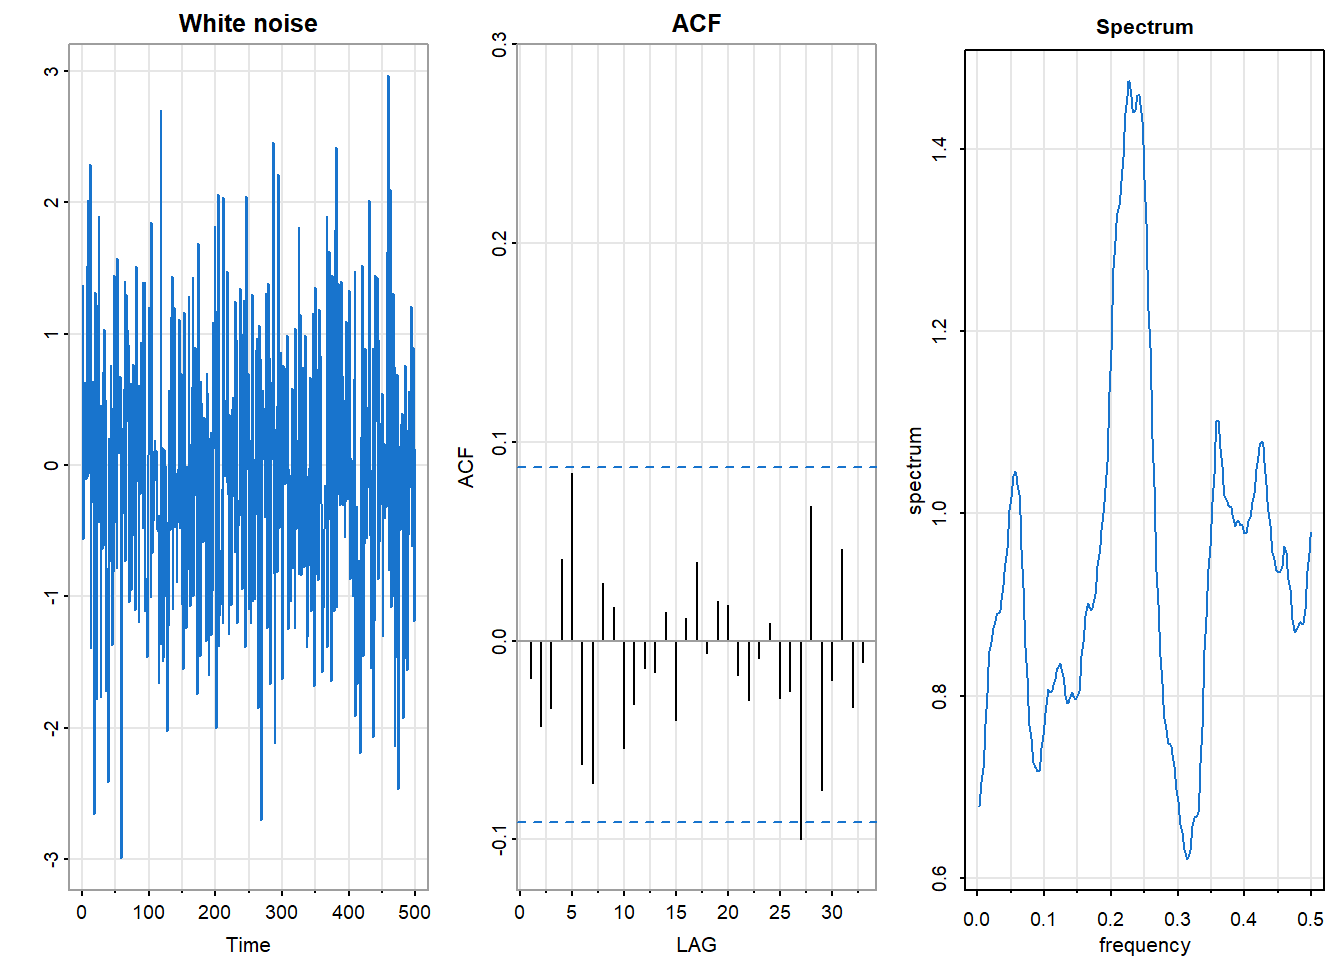
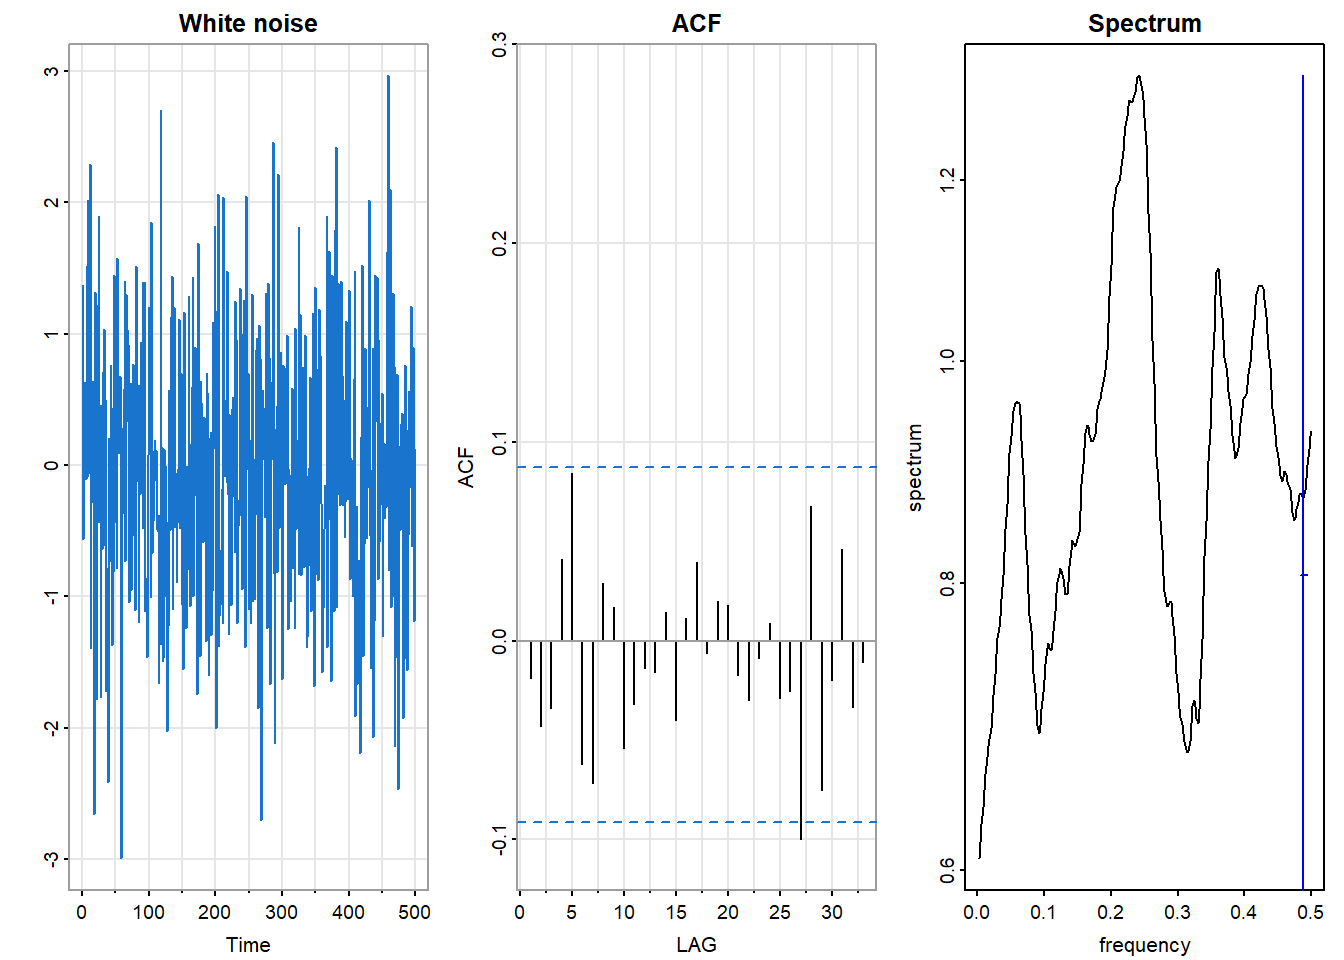
ts-data.qmd: final edits, including changing function calls to `pkg::fn()` format.

diff --git a/_book/ts-data.html b/_book/ts-data.html
@@ -480,7 +480,7 @@ window.Quarto = {
     <div>
     <div class="quarto-title-meta-heading">Published</div>
     <div class="quarto-title-meta-contents">
-      <p class="date">20:41 Thu 11-Dec-2025</p>
+      <p class="date">04:41 Fri 12-Dec-2025</p>
     </div>
   </div>
   
@@ -781,9 +781,6 @@ f_W(\lambda) = \frac{\sigma^2}{2\pi} \quad \text{for all } \lambda \in (-\pi, \p
 <h3 data-number="12.3.4" class="anchored" data-anchor-id="visual-signature"><span class="header-section-number">12.3.4</span> Visual Signature</h3>
 <p><a href="#fig-white-noise" class="quarto-xref">Figure&nbsp;<span>12.10</span></a> shows a realization of white noise along with its sample ACF and estimated spectrum.</p>
 <div class="cell">
-<div class="cell-output cell-output-stdout">
-<pre><code>Bandwidth: 0.042 | Degrees of Freedom: 42.21 | split taper: 0% </code></pre>
-</div>
 <div class="cell-output-display">
 <div id="fig-white-noise" class="quarto-float quarto-figure quarto-figure-center anchored">
 <figure class="quarto-float quarto-float-fig figure">
@@ -797,7 +794,7 @@ Figure&nbsp;12.10: White noise: time series, ACF, and spectrum
 </div>
 </div>
 </div>
-<p>The time series shows no visible pattern—values fluctuate randomly around zero with no apparent persistence or periodicity. The sample ACF hovers near zero at all nonzero lags, with values falling within the blue dashed confidence bands that indicate the range expected under the null hypothesis of white noise. The smoothed spectrum is approximately flat, with no peaks indicating dominant frequencies.</p>
+<p>The time series shows no visible pattern—values fluctuate randomly around zero with no apparent persistence or periodicity. The sample ACF hovers near zero at all nonzero lags, with values falling within the blue dashed confidence bands that indicate the range expected under the null hypothesis of white noise. The smoothed spectrum is approximately flat (within confidence bands), with no significant peaks indicating dominant frequencies.</p>
 <p>These are the signatures we look for when assessing whether a series (or the residuals from a fitted model) behaves like white noise.</p>
 </section>
 <section id="the-creation-myth" class="level3" data-number="12.3.5">
@@ -959,7 +956,7 @@ Y(t) = X(t) - X(t-s)
 <li><span class="math inline">\(|\rho(u)| \leq 1\)</span> (correlations are bounded)</li>
 <li><span class="math inline">\(\rho(-u) = \rho(u)\)</span> (symmetric in lag, since <span class="math inline">\(\text{Corr}(X(t), X(t+u)) = \text{Corr}(X(t+u), X(t))\)</span>)</li>
 </ul>
-<p>The ACF answers a fundamental question: <strong>how predictable is the future from the past?</strong> If <span class="math inline">\(\rho(u)\)</span> is large, observations <span class="math inline">\(u\)</span> time units apart are strongly related; knowing one tells you much about the other. If <span class="math inline">\(\rho(u)\)</span> is near zero, the observations are nearly uncorrelated; the past provides little information about the future at that lag.</p>
+<p>The ACF answers a fundamental question: <strong>how predictable is the future from the past?</strong> If <span class="math inline">\(\rho(u)\)</span> is large, observations <span class="math inline">\(u\)</span> time units apart are strongly related; knowing one tells you much about the other. If <span class="math inline">\(\rho(u)\)</span> is near zero, the observations are nearly uncorrelated; the past is a poor linear predictor of the future at that lag.</p>
 </section>
 <section id="sample-acf" class="level3" data-number="12.5.2">
 <h3 data-number="12.5.2" class="anchored" data-anchor-id="sample-acf"><span class="header-section-number">12.5.2</span> Sample ACF</h3>
@@ -976,7 +973,7 @@ Y(t) = X(t) - X(t-s)
 <p><span class="math display">\[
 \hat{\rho}(u) \stackrel{\cdot}{\sim} N\left(0, \frac{1}{T}\right) \quad \text{for } u \neq 0
 \]</span></p>
-<p>The conventional 95% confidence bands are thus <span class="math inline">\(\pm 1.96 / \sqrt{T}\)</span>, often displayed as blue dashed lines. Sample ACF values outside these bands suggest statistically significant autocorrelation at that lag.</p>
+<p>The conventional 95% confidence bands are thus <span class="math inline">\(\pm 1.96 / \sqrt{T}\)</span>, often displayed as dashed lines. Sample ACF values outside these bands suggest statistically significant autocorrelation at that lag.</p>
 <div class="cell">
 <div class="cell-output-display">
 <div id="fig-acf-soi-annotated" class="quarto-float quarto-figure quarto-figure-center anchored">
@@ -1084,10 +1081,9 @@ f(\lambda) = \frac{1}{2\pi} \sum_{u=-\infty}^{\infty} \gamma(u) e^{-i\lambda u}
 <p>The autocovariance function and spectral density contain exactly the same information, expressed in different domains. The ACF describes dependence in terms of time lags; the spectrum describes it in terms of frequency contributions to variance.</p>
 <p>This duality means that the diagnostic patterns have spectral interpretations:</p>
 <ul>
-<li><strong>Slow ACF decay</strong> corresponds to <strong>low-frequency dominance</strong> in the spectrum (trend or long-memory behavior).</li>
+<li><strong>Slow ACF decay</strong> corresponds to <strong>low-frequency dominance</strong> in the spectrum (trend or long-memory, AR-type behavior).</li>
 <li><strong>ACF oscillation</strong> corresponds to <strong>spectral peaks</strong> at characteristic frequencies (periodic components).</li>
 <li><strong>Sharp ACF cutoff</strong> corresponds to a <strong>smooth spectrum</strong> (MA-type short memory).</li>
-<li><strong>Gradual ACF decay</strong> corresponds to <strong>peaked spectrum</strong> (AR-type behavior).</li>
 </ul>
 <p>When examining a new time series, looking at both the ACF and the spectrum provides complementary views of the same underlying structure.</p>
 </section>
@@ -1103,8 +1099,8 @@ Q(h) = T(T+2) \sum_{u=1}^{h} \frac{\hat{\rho}(u)^2}{T-u}
 <div class="cell">
 <details class="code-fold">
 <summary>Show the code</summary>
-<div class="sourceCode cell-code" id="cb2"><pre class="sourceCode r code-with-copy"><code class="sourceCode r"><span id="cb2-1"><a href="#cb2-1" aria-hidden="true" tabindex="-1"></a><span class="co"># Ljung-Box test for SOI at lag 20</span></span>
-<span id="cb2-2"><a href="#cb2-2" aria-hidden="true" tabindex="-1"></a><span class="fu">Box.test</span>(soi, <span class="at">lag =</span> <span class="dv">20</span>, <span class="at">type =</span> <span class="st">"Ljung-Box"</span>)</span></code><button title="Copy to Clipboard" class="code-copy-button"><i class="bi"></i></button></pre></div>
+<div class="sourceCode cell-code" id="cb1"><pre class="sourceCode r code-with-copy"><code class="sourceCode r"><span id="cb1-1"><a href="#cb1-1" aria-hidden="true" tabindex="-1"></a><span class="co"># Ljung-Box test for SOI at lag 20</span></span>
+<span id="cb1-2"><a href="#cb1-2" aria-hidden="true" tabindex="-1"></a>stats<span class="sc">::</span><span class="fu">Box.test</span>(soi, <span class="at">lag =</span> <span class="dv">20</span>, <span class="at">type =</span> <span class="st">"Ljung-Box"</span>)</span></code><button title="Copy to Clipboard" class="code-copy-button"><i class="bi"></i></button></pre></div>
 </details>
 <div class="cell-output cell-output-stdout">
 <pre><code>
@@ -1250,7 +1246,7 @@ Figure&nbsp;12.14: Effective sample size as a function of AR(1) parameter
 </tr>
 </tbody>
 </table>
-<p>These are not minor technicalities. In fields where time series data are common—economics, climate science, epidemiology, finance—failure to account for autocorrelation has led to overconfident conclusions and spurious findings.</p>
+<p>These are not minor technicalities. In fields where time series data are common—economics, climate science, epidemiology, finance—failure to account for autocorrelation can lead to overconfident conclusions and spurious findings.</p>
 </section>
 <section id="what-to-do-about-it" class="level3" data-number="12.6.6">
 <h3 data-number="12.6.6" class="anchored" data-anchor-id="what-to-do-about-it"><span class="header-section-number">12.6.6</span> What To Do About It</h3>
@@ -1261,15 +1257,15 @@ Figure&nbsp;12.14: Effective sample size as a function of AR(1) parameter
 <div class="cell">
 <details class="code-fold">
 <summary>Show the code</summary>
-<div class="sourceCode cell-code" id="cb4"><pre class="sourceCode r code-with-copy"><code class="sourceCode r"><span id="cb4-1"><a href="#cb4-1" aria-hidden="true" tabindex="-1"></a><span class="co"># Estimate ESS for global temperature data</span></span>
-<span id="cb4-2"><a href="#cb4-2" aria-hidden="true" tabindex="-1"></a><span class="fu">ESS</span>(gtemp_land)</span></code><button title="Copy to Clipboard" class="code-copy-button"><i class="bi"></i></button></pre></div>
+<div class="sourceCode cell-code" id="cb3"><pre class="sourceCode r code-with-copy"><code class="sourceCode r"><span id="cb3-1"><a href="#cb3-1" aria-hidden="true" tabindex="-1"></a><span class="co"># Estimate ESS for global temperature data</span></span>
+<span id="cb3-2"><a href="#cb3-2" aria-hidden="true" tabindex="-1"></a>astsa<span class="sc">::</span><span class="fu">ESS</span>(gtemp_land)</span></code><button title="Copy to Clipboard" class="code-copy-button"><i class="bi"></i></button></pre></div>
 </details>
 <div class="cell-output cell-output-stdout">
 <pre><code>[1] 45.91</code></pre>
 </div>
 </div>
 <p>This returns an estimate of how many independent observations the series is “worth” for estimating the mean.</p>
-<p><strong>Block bootstrap</strong>: Resampling methods that preserve the dependence structure can provide valid inference without parametric assumptions.</p>
+<p><strong>Bootstrap</strong>: Resampling methods that preserve the dependence structure (fixed block length, random start-time, for example) can provide valid inference without parametric assumptions.</p>
 </section>
 <section id="the-deeper-point" class="level3" data-number="12.6.7">
 <h3 data-number="12.6.7" class="anchored" data-anchor-id="the-deeper-point"><span class="header-section-number">12.6.7</span> The Deeper Point</h3>
@@ -1320,7 +1316,7 @@ Figure&nbsp;12.14: Effective sample size as a function of AR(1) parameter
 <h2 data-number="12.8" class="anchored" data-anchor-id="chapter-summary"><span class="header-section-number">12.8</span> Chapter Summary</h2>
 <ol type="1">
 <li><p><strong>Time series have memory</strong>: Successive observations are dependent, not independent. This dependence is information about how the system evolves.</p></li>
-<li><p><strong>Two equivalent descriptions</strong>: The autocorrelation function (time domain) and spectral density (frequency domain) contain the same information, expressed differently. They are Fourier transform pairs.</p></li>
+<li><p><strong>Two equivalent descriptions</strong>: The autocovariance function (time domain) and spectral density (frequency domain) contain the same information, expressed differently. They are Fourier transform pairs.</p></li>
 <li><p><strong>Fourier analysis is fundamental</strong>: Complex exponentials are eigenfunctions of the time-shift operator. This deep fact explains why frequency decomposition is natural for stationary processes.</p></li>
 <li><p><strong>White noise is the baseline</strong>: Zero autocorrelation at all nonzero lags; flat spectrum. Departures from this baseline reveal structure.</p></li>
 <li><p><strong>Stationarity enables estimation</strong>: When statistical properties don’t change over time, we can estimate the ACF and spectrum from a single realization. Stationarity is the statistical counterpart of time-invariance.</p></li>
